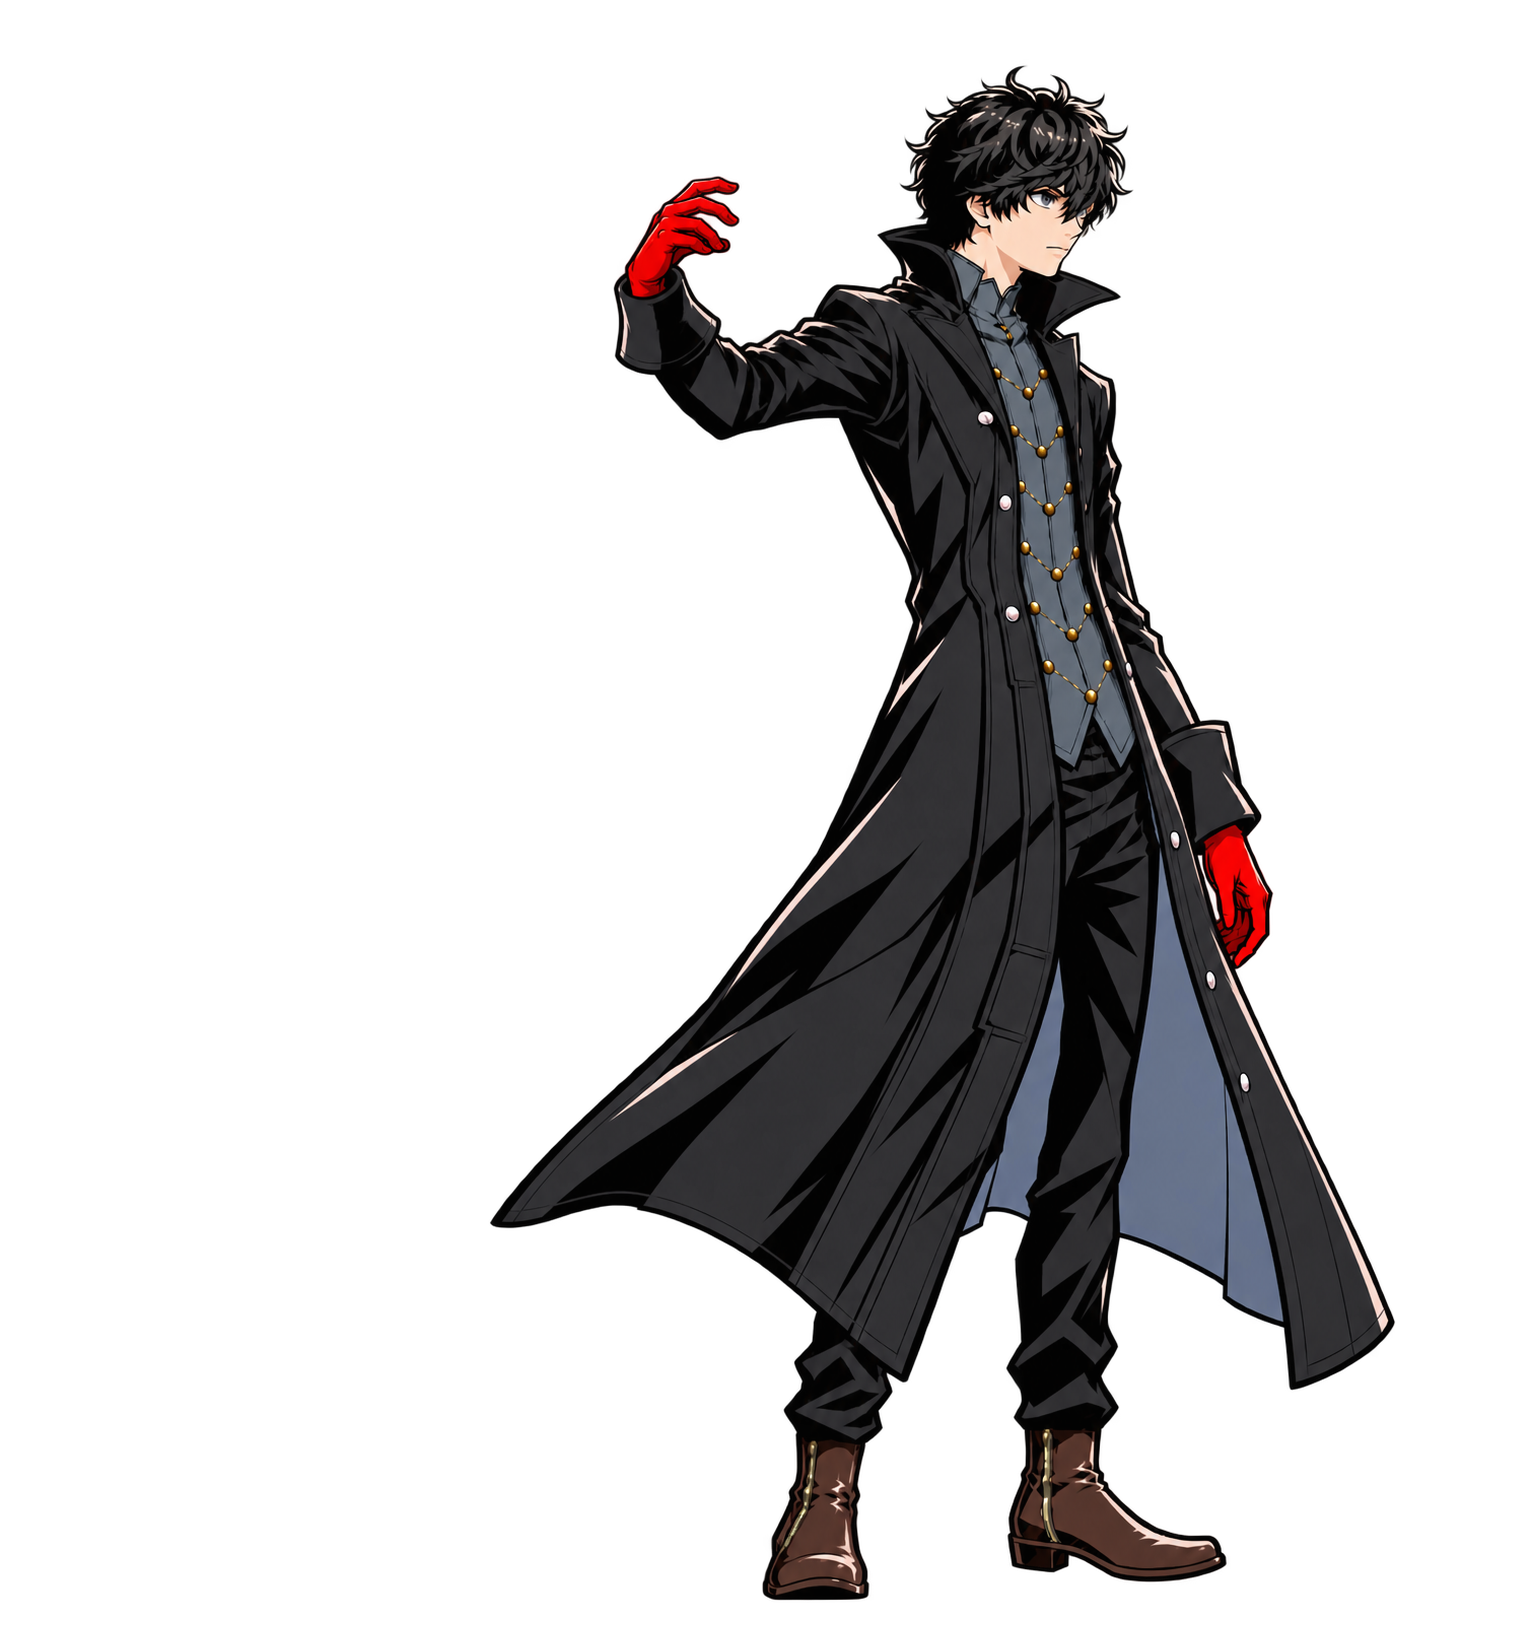
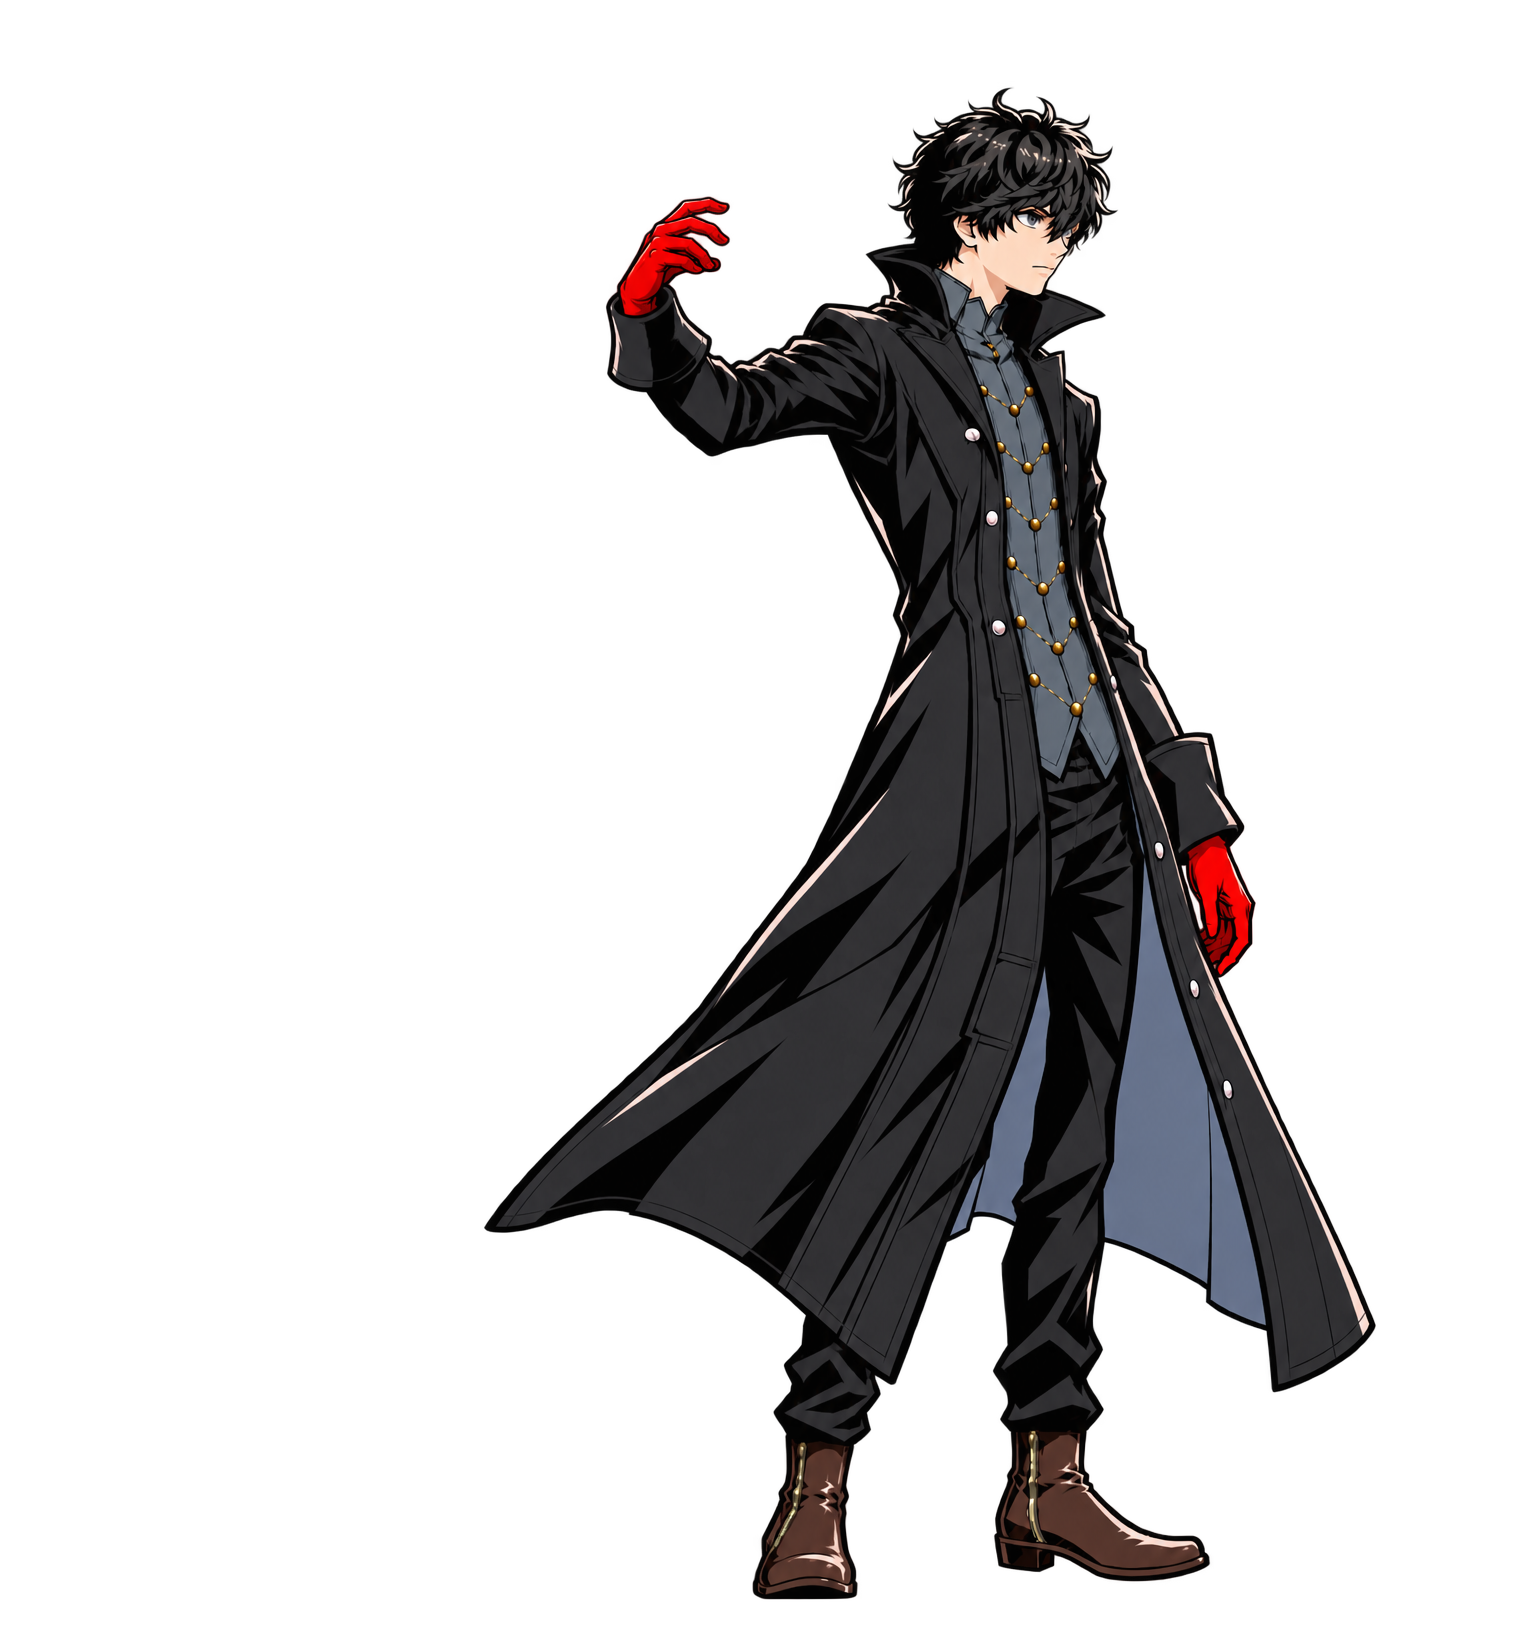
art: P5 summon fling1 back to 1.0 scale; big summon goes rip -> fling2 with crossfade
Claude-Session: https://claude.ai/code/session_01Nam5m2bn9ofCCWTGM6fwcN

diff --git a/tools/p5/normalize_poses.py b/tools/p5/normalize_poses.py
@@ -31,7 +31,7 @@ POSES = {'idle_a3': (1.0, 'rear'), 'guard_a2': (1.0, 'front'), 'knife_ready_a': 
          'gun_lift_near_a': (1.0, 'rear'), 'summon_hold_a': (1.0, 'front'), 'summon_rip_a2': (1.0, 'front'), 'summon_release_a': (1.035, 'front', 45),
          'summon_lift1_a': (1.0, 'front'), 'summon_lift2_a': (1.0, 'front'), 'summon_fling_a': (1.015, 'front', 45), 'summon_settle_a': (1.035, 'front', 22),
          'summon_lift_mid_a': (1.0, 'front'), 'summon_touch1_a': (1.0, 'front'), 'summon_touch2_a': (1.0, 'front'),
-         'summon_fling1_a': (1.015, 'front', 15), 'summon_fling2_a': (1.015, 'front', 45),
+         'summon_fling1_a': (1.0, 'front'), 'summon_fling2_a': (1.015, 'front', 45),
          'summon_lift_bridge_a': (1.0, 'front'), 'summon_touch_mid_a': (1.0, 'front'), 'summon_contact_a': (1.0, 'front')}
 
 
